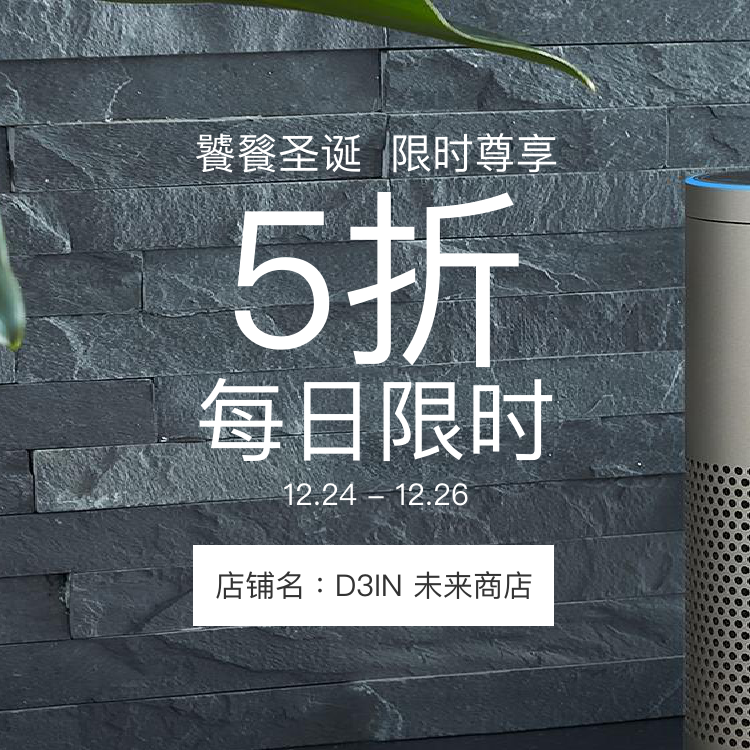
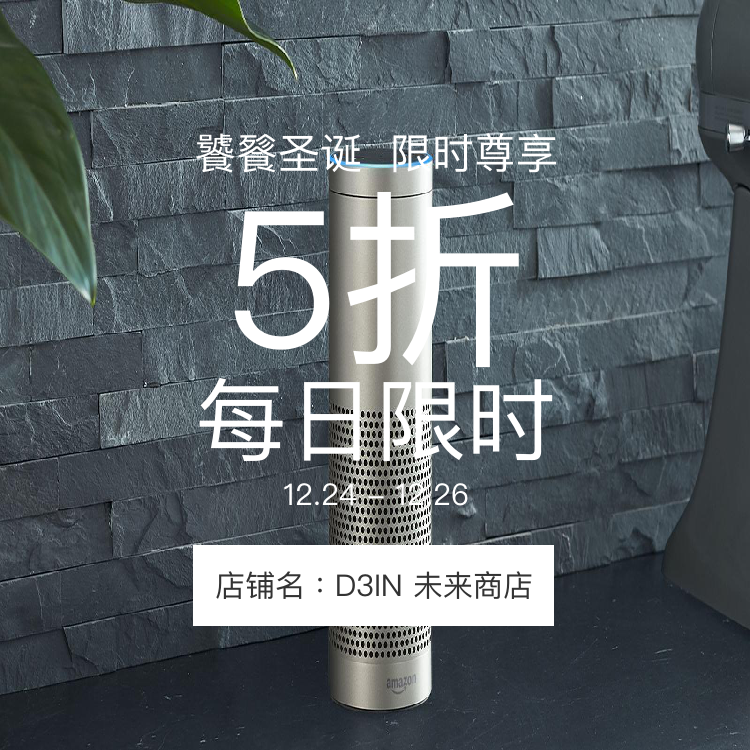
添加商品促销海报类型；调整海报合成后的保存上传

diff --git a/vimage/main/views.py b/vimage/main/views.py
@@ -33,6 +33,20 @@ def helloworld():
     return 'Hello World!'
 
 
+def uploadImage(poster_image):
+    """
+        保存上传海报图片
+    """
+
+    save_path = 'vimage/resource/poster/'
+    save_name = 'poster_'
+    localfile = save_path + save_name + '.png'
+    poster_image.save(localfile)
+
+    # uploadQiniu(localfile)
+    poster_image.show()
+
+
 @main.route('/goodscard')
 def showGoodsCard(post_data):
     """
@@ -64,20 +78,11 @@ def showGoodsCard(post_data):
         if case():
             style_data = goods_card_style.getStyleOne()
 
-    # 创建一个画布
-    canvas = Canvas(style_data)
-
-    # 保存地址
-    save_path = 'vimage/resource/poster/'
-    save_name = 'goods_' + str(style_data['id'])
-    localfile = save_path + save_name + '.png'
-
     # 生成海报图片,保存到本地
+    canvas = Canvas(style_data)
     poster_image = canvas.getPoster(True, draw_position, '#999999')
-    poster_image.save(localfile)
 
-    # uploadQiniu(localfile)
-    poster_image.show()
+    uploadImage(poster_image)
 
 
 @main.route('/salescard')
@@ -91,22 +96,15 @@ def showSalesCard(post_data):
 
     style_data = sales_card_style.getStyleOne()
 
-    # 创建一个画布
-    canvas = Canvas(style_data)
-
-    # 保存地址
-    save_path = 'vimage/resource/poster/'
-    save_name = 'sales_' + str(style_data['id'])
-    localfile = save_path + save_name + '.png'
+    if len(post_data['qrcode_img']) > 0:
+        style_data = sales_card_style.getStyleTwo()
 
     # 生成海报图片,保存到本地
+    canvas = Canvas(style_data)
     draw_position = [(193, 545), (553, 625)]
-
     poster_image = canvas.getPoster(True, draw_position, '#FFFFFF')
-    poster_image.save(localfile)
 
-    # uploadQiniu(localfile)
-    poster_image.show()
+    uploadImage(poster_image)
 
 
 @unique
@@ -176,7 +174,7 @@ def pasteImage(back_image, paste_image):
     result_image = paste_image.image
 
     if result_image is not None:
-        result_image = result_image.resize((width, height), 0, (width/4, 0, width, height))
+        result_image = result_image.resize((width, height))
         # 对图片合成
         back_image.paste(result_image, (left, top), result_image)
 

diff --git a/vimage/models/posterstyle.py b/vimage/models/posterstyle.py
@@ -313,3 +313,31 @@ class GoodsSalesStyle:
         # 格式化数据
         return getStyleData(self.identify, self.size, self.color, texts, images)
 
+    def getStyleTwo(self):
+        """
+            样式二
+        """
+
+        # 文字
+        salse_title_data = getTextData(self, TextType.SalesTitle, 42, None, 'center', '#FFFFFF', 194, 123, 0)
+        sales_pct_data = getTextData(self, TextType.SalesPCT, 190, None, 'center', '#FFFFFF', 225, 146, 1)
+        sales_info_data = getTextData(self, TextType.SalesInfo, 90, None, 'center', '#FFFFFF', 196, 357, 2)
+        sales_brand_data = getTextData(self, TextType.SalesBrand, 30, None, 'center', '#333333', 215, 564, 3)
+        time_data = getTextData(self, TextType.Time, 30, None, 'center', '#FFFFFF', 283, 473, 4)
+        hint_text = getTextData(self, TextType.Hint, 24, None, 'center', '#333333', 260, 1080, 5)
+
+        texts = [salse_title_data, sales_pct_data, sales_info_data, sales_brand_data, time_data, hint_text]
+
+        # 图片
+        background_image_data = getImageData(self, ImageType.Background, 750, 750, 0, 0, 0)
+        qrcode_image_data = getImageData(self, ImageType.QRCode, 250, 250, 250, 810, 1)
+        logo_image_data = getImageData(self, ImageType.Logo, 0, 0, 0, 0, 2)
+
+        images = [background_image_data, qrcode_image_data, logo_image_data]
+
+        # 格式化数据
+        width, height = 750, 1150
+        size = {"width": width, "height": height}
+
+        return getStyleData(self.identify, size, self.color, texts, images)
+

diff --git a/vimage/models/salescard.py b/vimage/models/salescard.py
@@ -21,6 +21,8 @@ class SalesCard(db.Model):
     sales_brand = db.Column(db.String(20), nullable=True)
     # 时间
     time_text = db.Column(db.String(50), nullable=True)
+    # 提示文字
+    hint_text = db.Column(db.String(50), nullable=True)
     # 背景图片(url)
     background_img = db.Column(db.Text(), nullable=False)
     # 二维码(url)
@@ -43,7 +45,8 @@ class SalesCard(db.Model):
                     "sales_pct": self.sales_pct,
                     "sales_info": self.sales_info,
                     "sales_brand": self.sales_brand,
-                    "time_text": self.time_text
+                    "time_text": self.time_text,
+                    "hint_text": self.hint_text
                 },
                 "images": {
                     "background_img": self.background_img,

diff --git a/vimage/api_1_0/views.py b/vimage/api_1_0/views.py
@@ -79,6 +79,7 @@ def getSalesCard():
             'sales_info': texts['sales_info'],
             'sales_brand': texts['sales_brand'],
             'time_text': texts['time_text'],
+            'hint_text': texts['hint_text'],
             'background_img': images['background_img'],
             'logo_img': images['logo_img'],
             'qrcode_img': images['qrcode_img']
